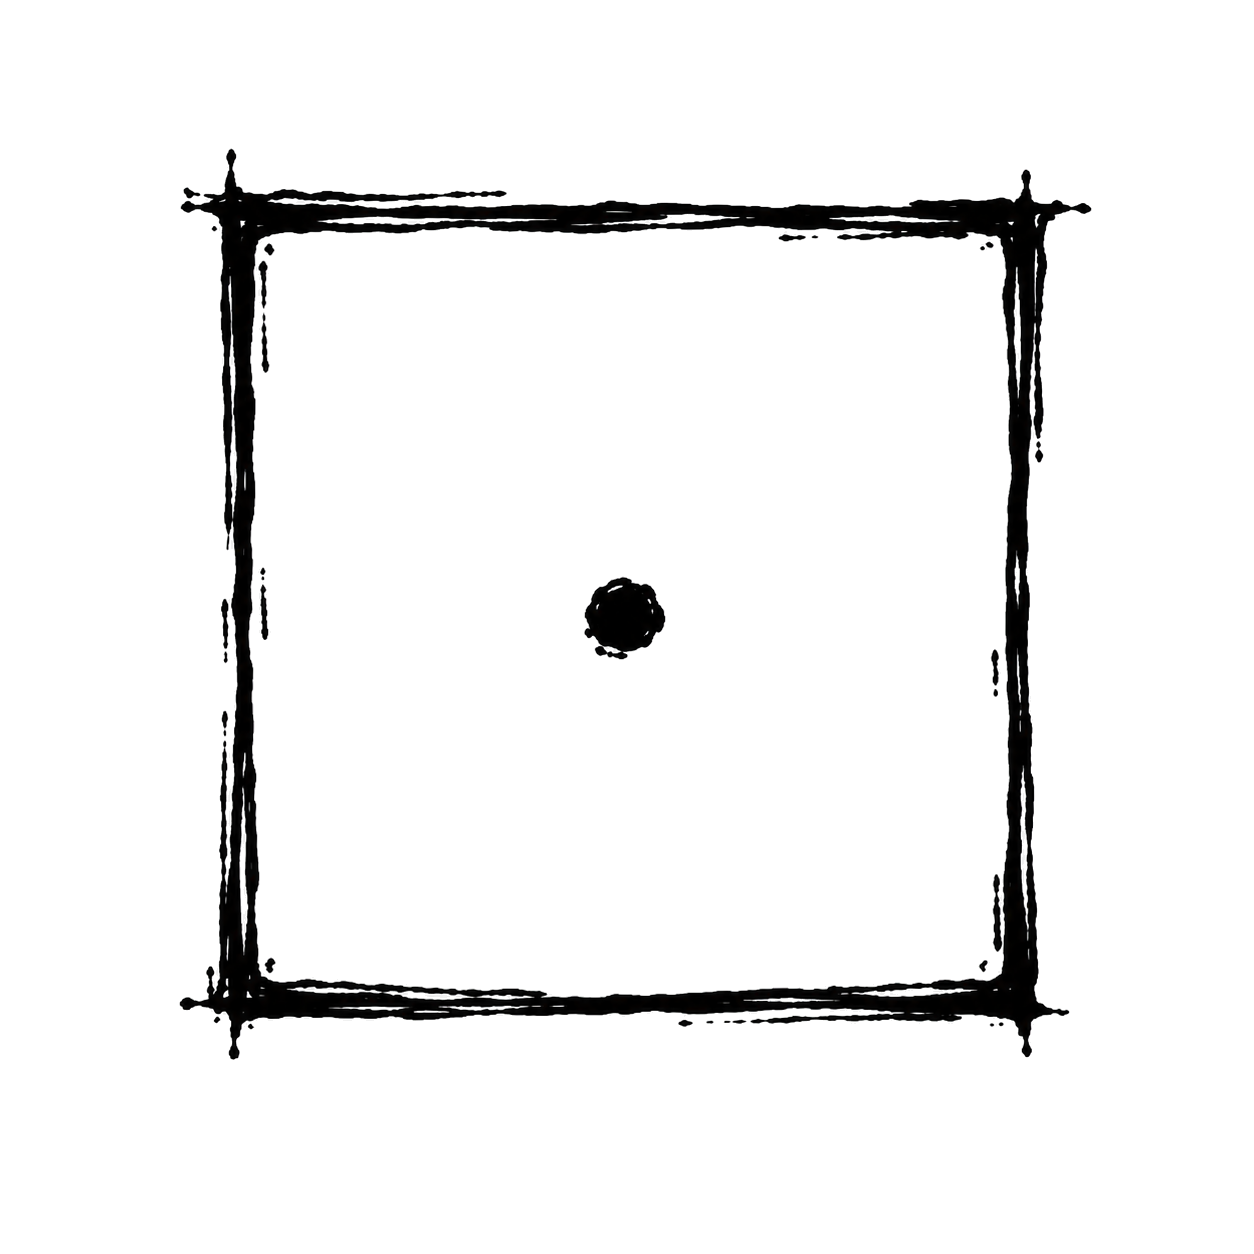
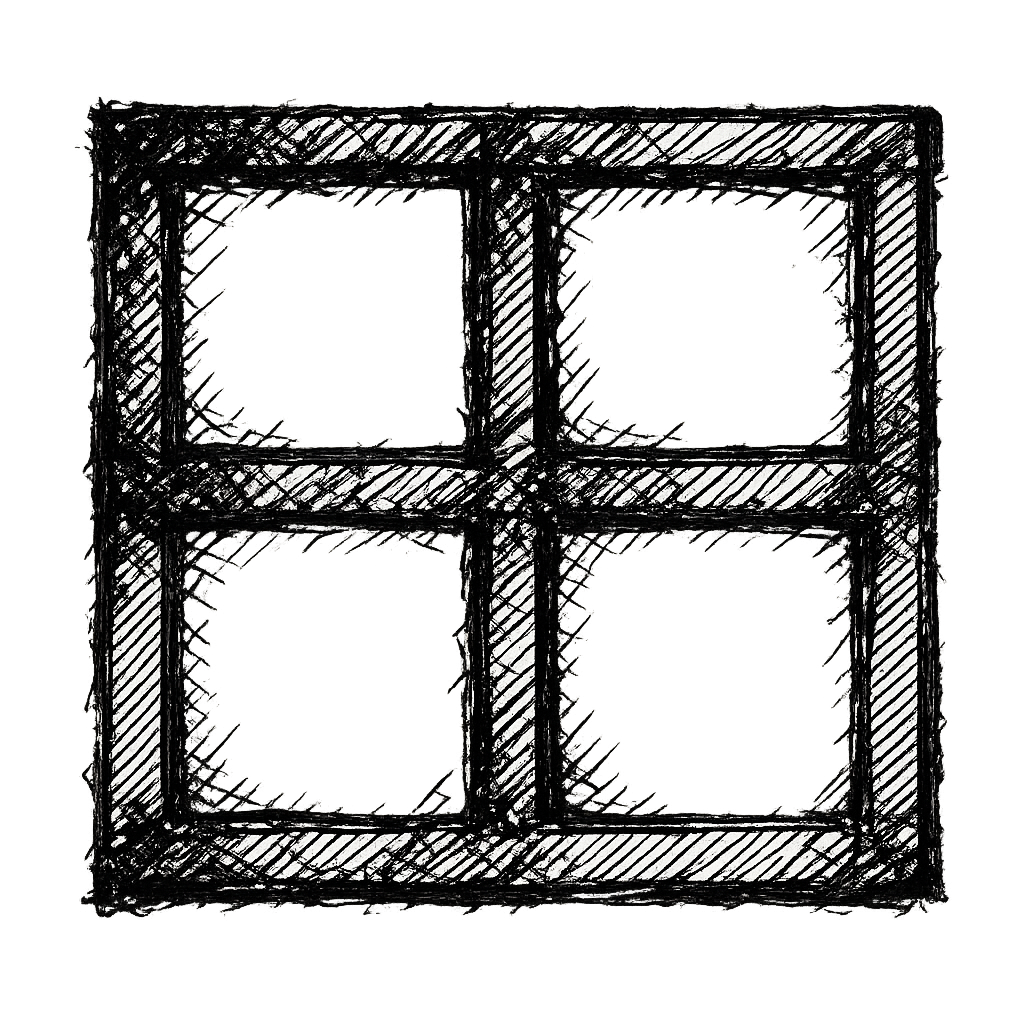
save

diff --git a/readme.md b/readme.md
@@ -11,7 +11,7 @@
 
 <h3 align='center'>@cluesurf/tool</h3>
 <p align='center'>
-  A Hackable Workshop ⊡
+  A Hackable Workshop 𐌎
 </p>
 
 <br/>
